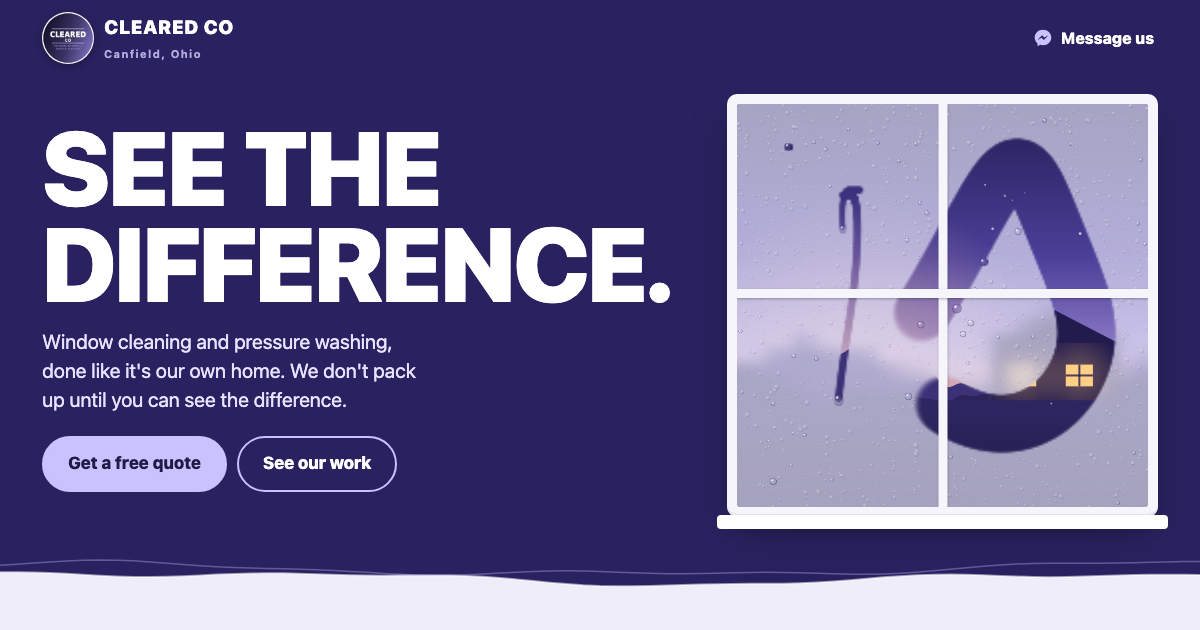
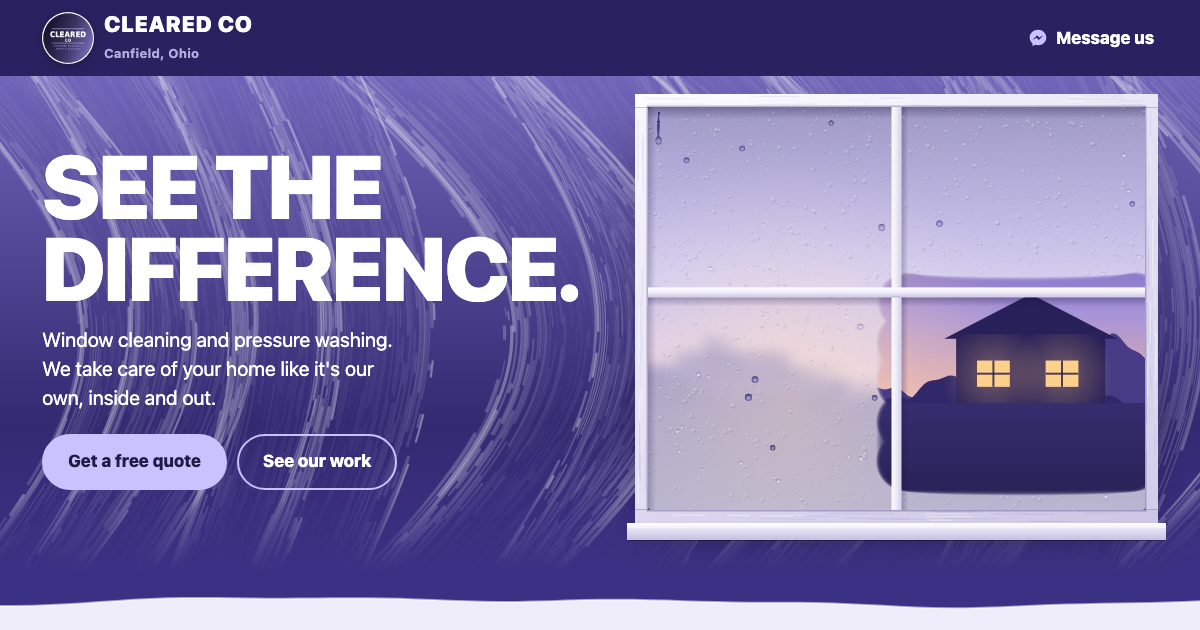
Purple soap-streak hero background
Claude-Session: https://claude.ai/code/session_01Qj7yoLR8tw7sZ5iYLrb5kt

diff --git a/index.html b/index.html
@@ -58,9 +58,11 @@ p{margin:0}
 .hd-contact:hover span{text-decoration:underline;text-underline-offset:4px}
 
 /* ---------- hero ---------- */
-.hero{padding:22px 0 8px;position:relative;background:linear-gradient(180deg,var(--indigo) 0%,var(--indigo) 30%,var(--hero-end) 100%)}
+.hero{padding:22px 0 8px;position:relative;isolation:isolate;background:linear-gradient(180deg,var(--violet) 0%,var(--indigo-2) 70%,var(--hero-end) 100%)}
+/* soap streaks on glass, painted once by the suds IIFE; fades out before the seam */
+.suds{position:absolute;inset:0;width:100%;height:100%;z-index:-1;pointer-events:none}
 .hero h1{font-size:clamp(46px,14vw,96px);line-height:.92;letter-spacing:-.02em}
-.hero .promise{margin-top:16px;font-size:clamp(17px,4.6vw,20px);line-height:1.45;color:#e6e2ff;max-width:34ch}
+.hero .promise{margin-top:16px;font-size:clamp(17px,4.6vw,20px);line-height:1.45;color:#fff;max-width:34ch}
 .actions{display:grid;gap:10px;margin-top:22px}
 .btn{display:flex;align-items:center;justify-content:center;gap:10px;min-height:56px;padding:0 24px;border-radius:999px;font:800 17px/1 var(--font);text-decoration:none;border:2px solid var(--lavender);cursor:pointer;transition:background .2s,color .2s,transform .15s}
 .btn:active{transform:scale(.98)}
@@ -259,6 +261,7 @@ FINISH: unreviewed and undocumented is unfinished; this build ends with the fini
 
 <main id="top">
   <section class="hero">
+    <canvas class="suds" aria-hidden="true"></canvas>
     <div class="wrap">
       <div>
         <h1>See the difference.</h1>
@@ -525,6 +528,59 @@ const Loop = (function(){
   };
 })();
 const REDUCED = matchMedia('(prefers-reduced-motion: reduce)').matches;
+
+/* ---------- soap streaks behind the hero: arcs of sponge-wiped suds, white on purple ---------- */
+(function suds(){
+  const U = { SWATH_MIN: 110, SWATH_MAX: 260, GAP: 2.4, BOW: 120, FOAM: .42, FADE: 90 };   // FOAM = brightest streak alpha, FADE = px fade at the bottom
+  const cv = document.querySelector('.suds'); if (!cv) return;
+  const c = cv.getContext('2d');
+  let lastW = 0;
+  function rnd(seed){ return () => (seed = (seed * 16807) % 2147483647) / 2147483647; }
+  function paint(){
+    const W = cv.clientWidth, H = cv.clientHeight; if (!W || !H) return;
+    const dpr = Math.min(devicePixelRatio || 1, 2);
+    cv.width = Math.round(W * dpr); cv.height = Math.round(H * dpr);
+    c.setTransform(dpr, 0, 0, dpr, 0, 0); c.clearRect(0, 0, W, H);
+    const r = rnd(7919), k0 = Math.max(.5, Math.min(1, W / 1100));   // smaller wipes on a phone-sized pane
+    c.lineCap = 'round';
+    // one arm's-length band of wipes at a time; a tall phone hero gets several, overlapping
+    const BAND = Math.min(H, Math.max(460, W * 1.15)), bands = H <= BAND ? 1 : Math.ceil((H - BAND) / (BAND * .75)) + 1;
+    for (let bi = 0; bi < bands; bi++){
+    const y0 = bands === 1 ? 0 : bi * (H - BAND) / (bands - 1), last = bi === bands - 1, first = bi === 0;
+    for (let x0 = -60 + (bi % 2) * 40 * k0; x0 < W + 40; ){
+      const w = (U.SWATH_MIN + r() * (U.SWATH_MAX - U.SWATH_MIN)) * k0, bow = (.4 + r()) * U.BOW * k0, lean = (r() - .3) * 80 * k0;
+      const n = Math.floor(w / (U.GAP * (.6 + .4 * k0)));
+      for (let k = 0; k < n; k++){
+        const e = Math.abs(k / n - .5) * 2;                    // 0 middle of swath, 1 at its edges
+        const a = U.FOAM * (.14 + .86 * Math.pow(e, 3)) * (.35 + r() * .65);
+        const f1 = .6 + r() * 2.2, f2 = 3 + r() * 7, p1 = r() * 6, p2 = r() * 6, th = -.15 - e * .5 + r() * .45;
+        c.strokeStyle = 'rgba(255,255,255,' + a.toFixed(3) + ')';
+        c.lineWidth = 1 + r() * (e > .75 ? 2.4 : 1.6);
+        c.beginPath();
+        let on = false;
+        for (let y = y0 - 10; y < y0 + BAND + 10; y += 4){
+          const t = (y - y0) / BAND, x = x0 + k * w / n + bow * Math.sin(Math.PI * t) + lean * t;
+          const v = Math.sin(t * f1 * 6 + p1) * .6 + Math.sin(t * f2 * 6 + p2) * .4;
+          const end = (first ? 0 : Math.max(0, .25 - t)) + (last ? 0 : Math.max(0, t - .75));   // break up into foam where bands overlap
+          if (v > th + end * 6){ on ? c.lineTo(x, y) : c.moveTo(x, y); on = true; } else on = false;
+        }
+        c.stroke();
+      }
+      x0 += w * (.7 + r() * .25);                               // swaths overlap like real wipes
+    }
+    }
+    // fade to nothing before the seam so the hero meets it on a flat colour
+    c.globalCompositeOperation = 'destination-out';
+    const g = c.createLinearGradient(0, H - U.FADE, 0, H);
+    g.addColorStop(0, 'rgba(0,0,0,0)'); g.addColorStop(1, 'rgba(0,0,0,1)');
+    c.fillStyle = g; c.fillRect(0, H - U.FADE, W, U.FADE);
+    c.globalCompositeOperation = 'source-over';
+    lastW = W;
+  }
+  paint();
+  let to = 0;
+  addEventListener('resize', () => { clearTimeout(to); to = setTimeout(() => { if (cv.clientWidth !== lastW || Math.abs(cv.height / Math.min(devicePixelRatio || 1, 2) - cv.clientHeight) > 40) paint(); }, 150); });
+})();
 
 /* ---------- the fogged window ---------- */
 (function glass(){

diff --git a/HANDOFF.md b/HANDOFF.md
@@ -6,6 +6,7 @@
 - One page, phone first: header (logo + "Cleared Co / Canfield, Ohio", **Message us** top-right), hero, What we clean, Where we work, How it works, Recent work, free-quote form, footer.
 - World: the logo's indigo-to-violet as the ground, lavender-white painted window frames, heavy uppercase system type.
 - Signature: the hero is a **fogged dusk window** (canvas). It wipes itself in loose passes until touched; a finger or mouse wipes it clear in any direction (vertical drags wipe instead of scrolling); the fog creeps back; drops run down in stop-go jerks, leave clear trails, soak up beads, and get nudged by the finger. Tunables are in `T` at the top of the `glass` IIFE (`REGROW`, `BRUSH`, `GHOST_IDLE`, `SPAWN`...).
+- Hero background: **soap streaks on glass** (sponge-wiped suds, white on the brand purple), painted once on a canvas by the `suds` IIFE, tunables in `U`. Ellie asked for a watermarked Dreamstime stock photo; it can't be published unlicensed, so this is drawn in code instead. If Ellie licenses it, it can go in as a CSS background instead.
 - Moving water-line seams between sections (`S.SPEED`, `S.AMP` in `seams`).
 - Contact: **no phone exists**, so everything goes to Messenger (`m.me/61589631985029`). The form builds a pre-written message, copies it, and opens Messenger with `?text=`; if that doesn't fill in, the message stays on the page with Copy / Open Messenger.
 - **One-line switch:** set `CONFIG.PHONE = '3305551234'` and the header becomes the tap-to-call number, the footer shows it, and the form sends by text (`sms:`) instead.

diff --git a/DESIGN.md b/DESIGN.md
@@ -308,3 +308,6 @@ Change behavior through these, not by editing the drawing code, so the pieces st
 - **Don't** use black or neutral grey grounds or shadows inside the window world.
 - **Don't** use Facebook blue outside the Facebook link.
 - **Don't** add small uppercase tracked labels above headings; the 13px uppercase style belongs only to the tag on a photo.
+
+## Hero background (added 2026-10-18)
+The hero ground is a vertical ramp `--violet` → `--indigo-2` (70%) → `--hero-end`, with soap streaks painted over it on `canvas.suds` (z-index -1, static, repainted only on a real resize). Streaks are white, in overlapping swaths 110–260px wide (scaled down to 0.5x on phones), bowed like sponge wipes, brightest at the swath edges (`FOAM` .42), and drawn in arm's-length bands so a tall phone hero gets several rows of wipes. They fade out over the last 90px so the hero meets the seam on flat `--hero-end`. Hero promise text is pure white (needed for contrast on violet).
